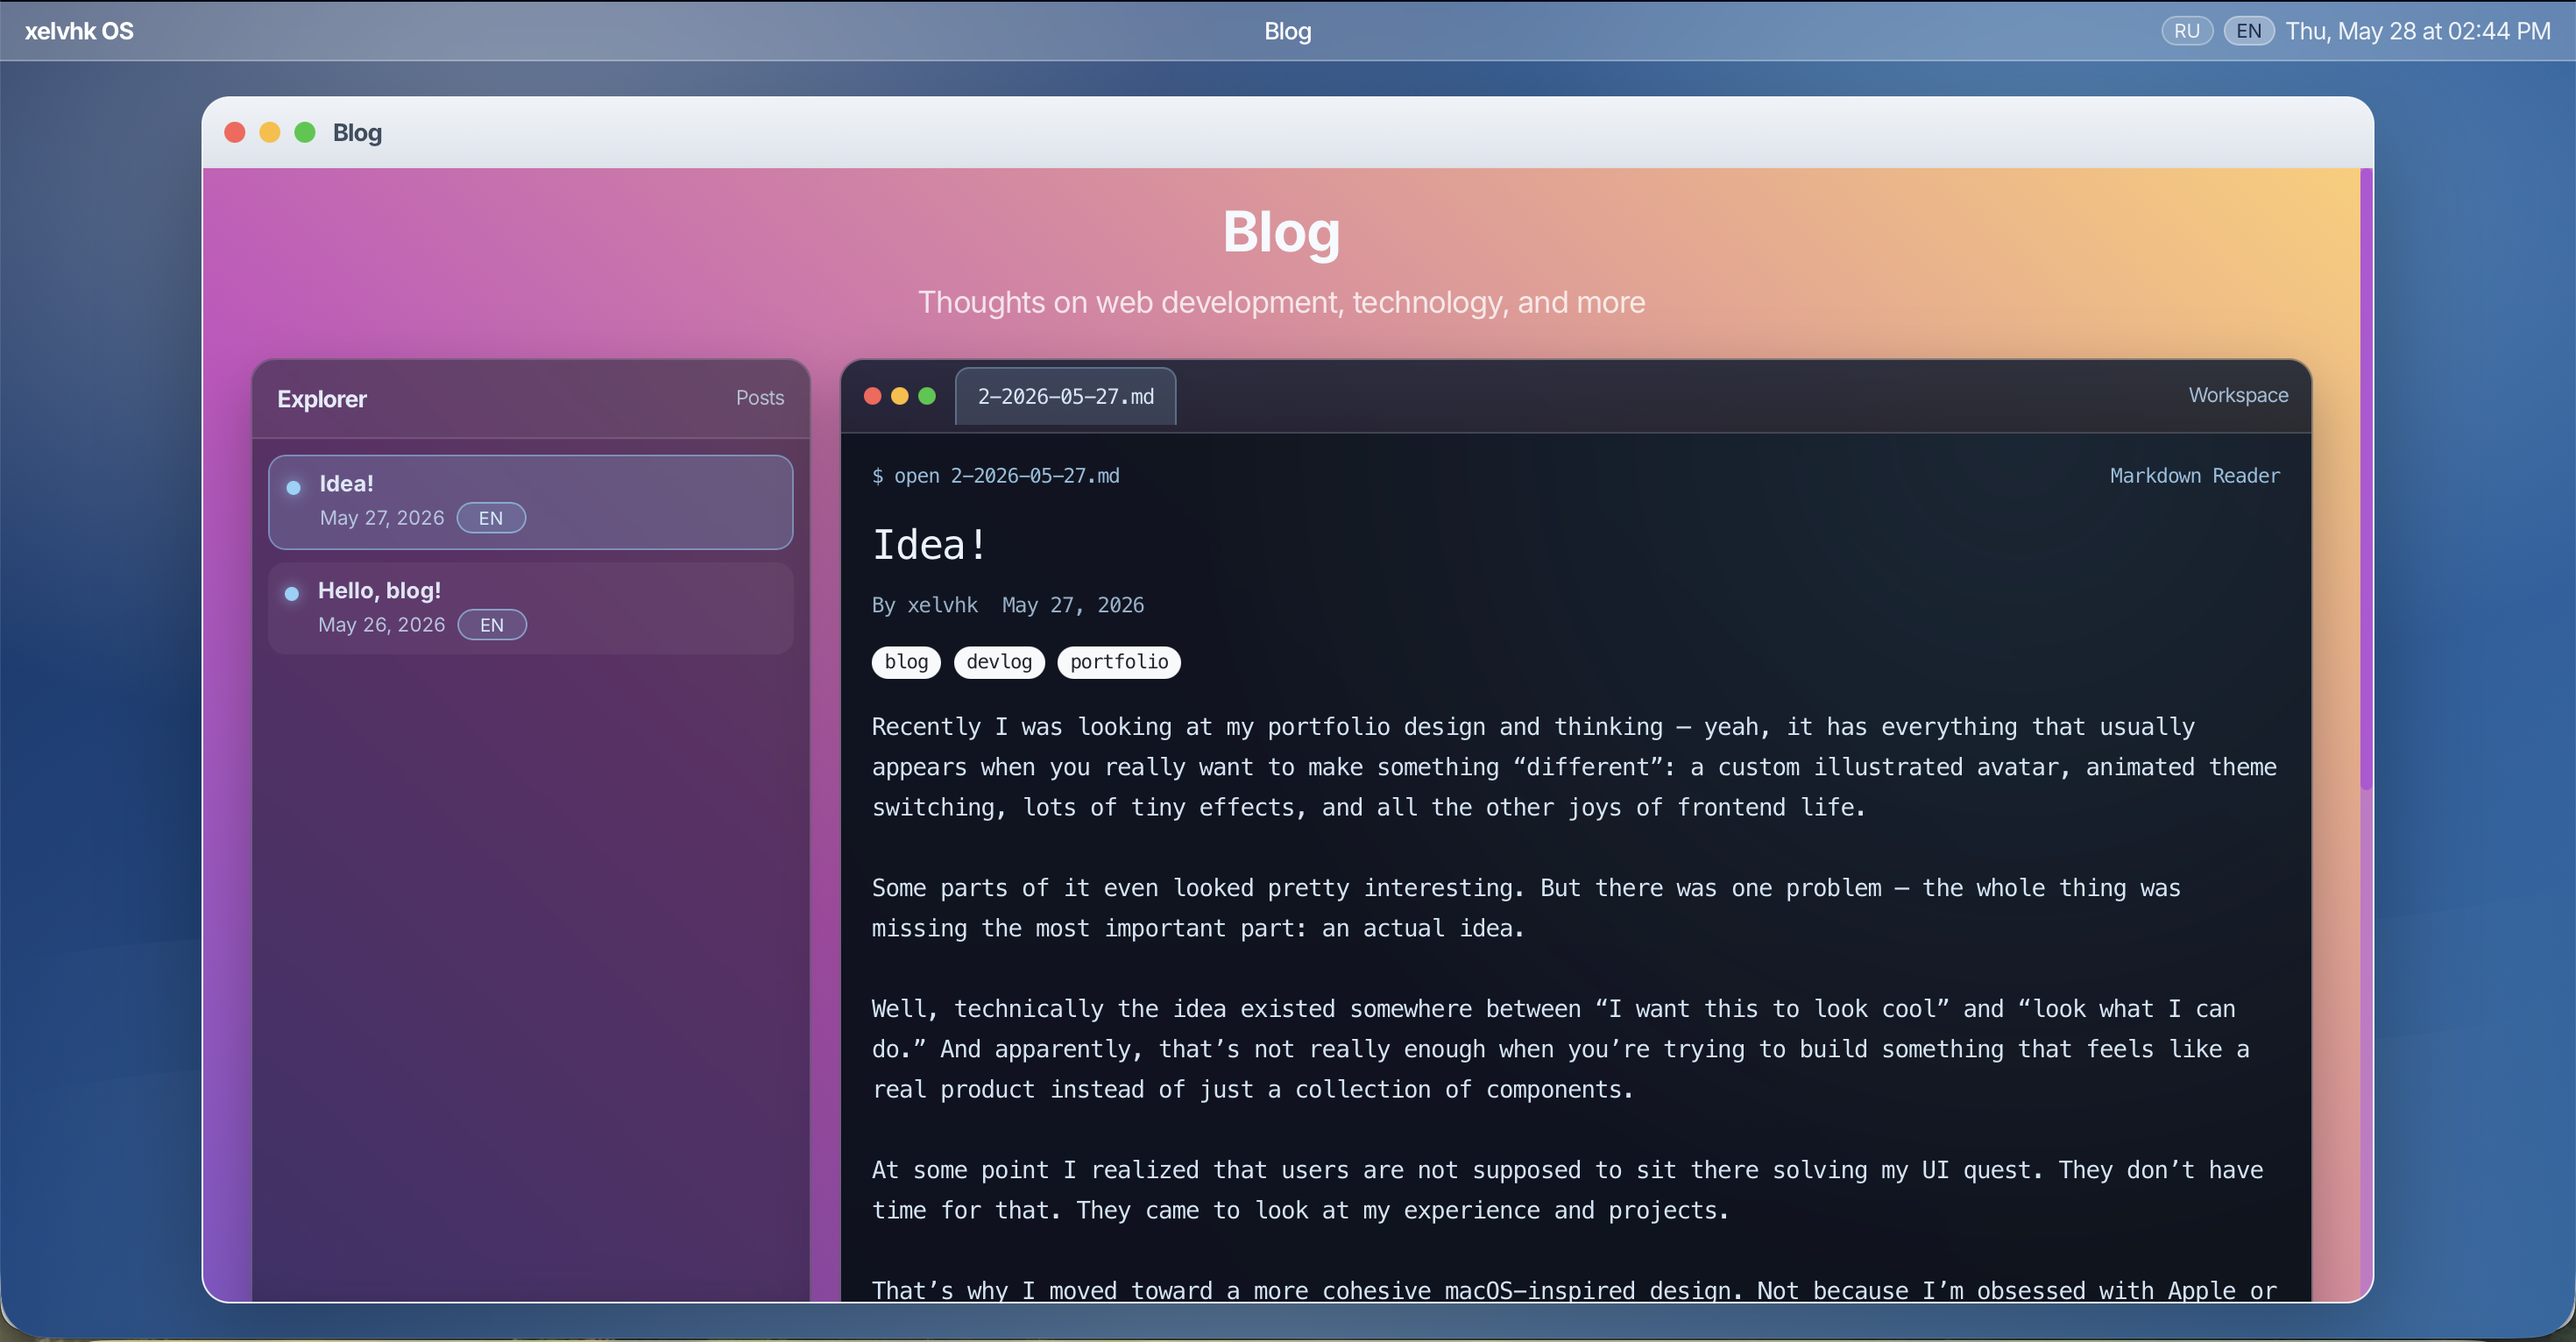
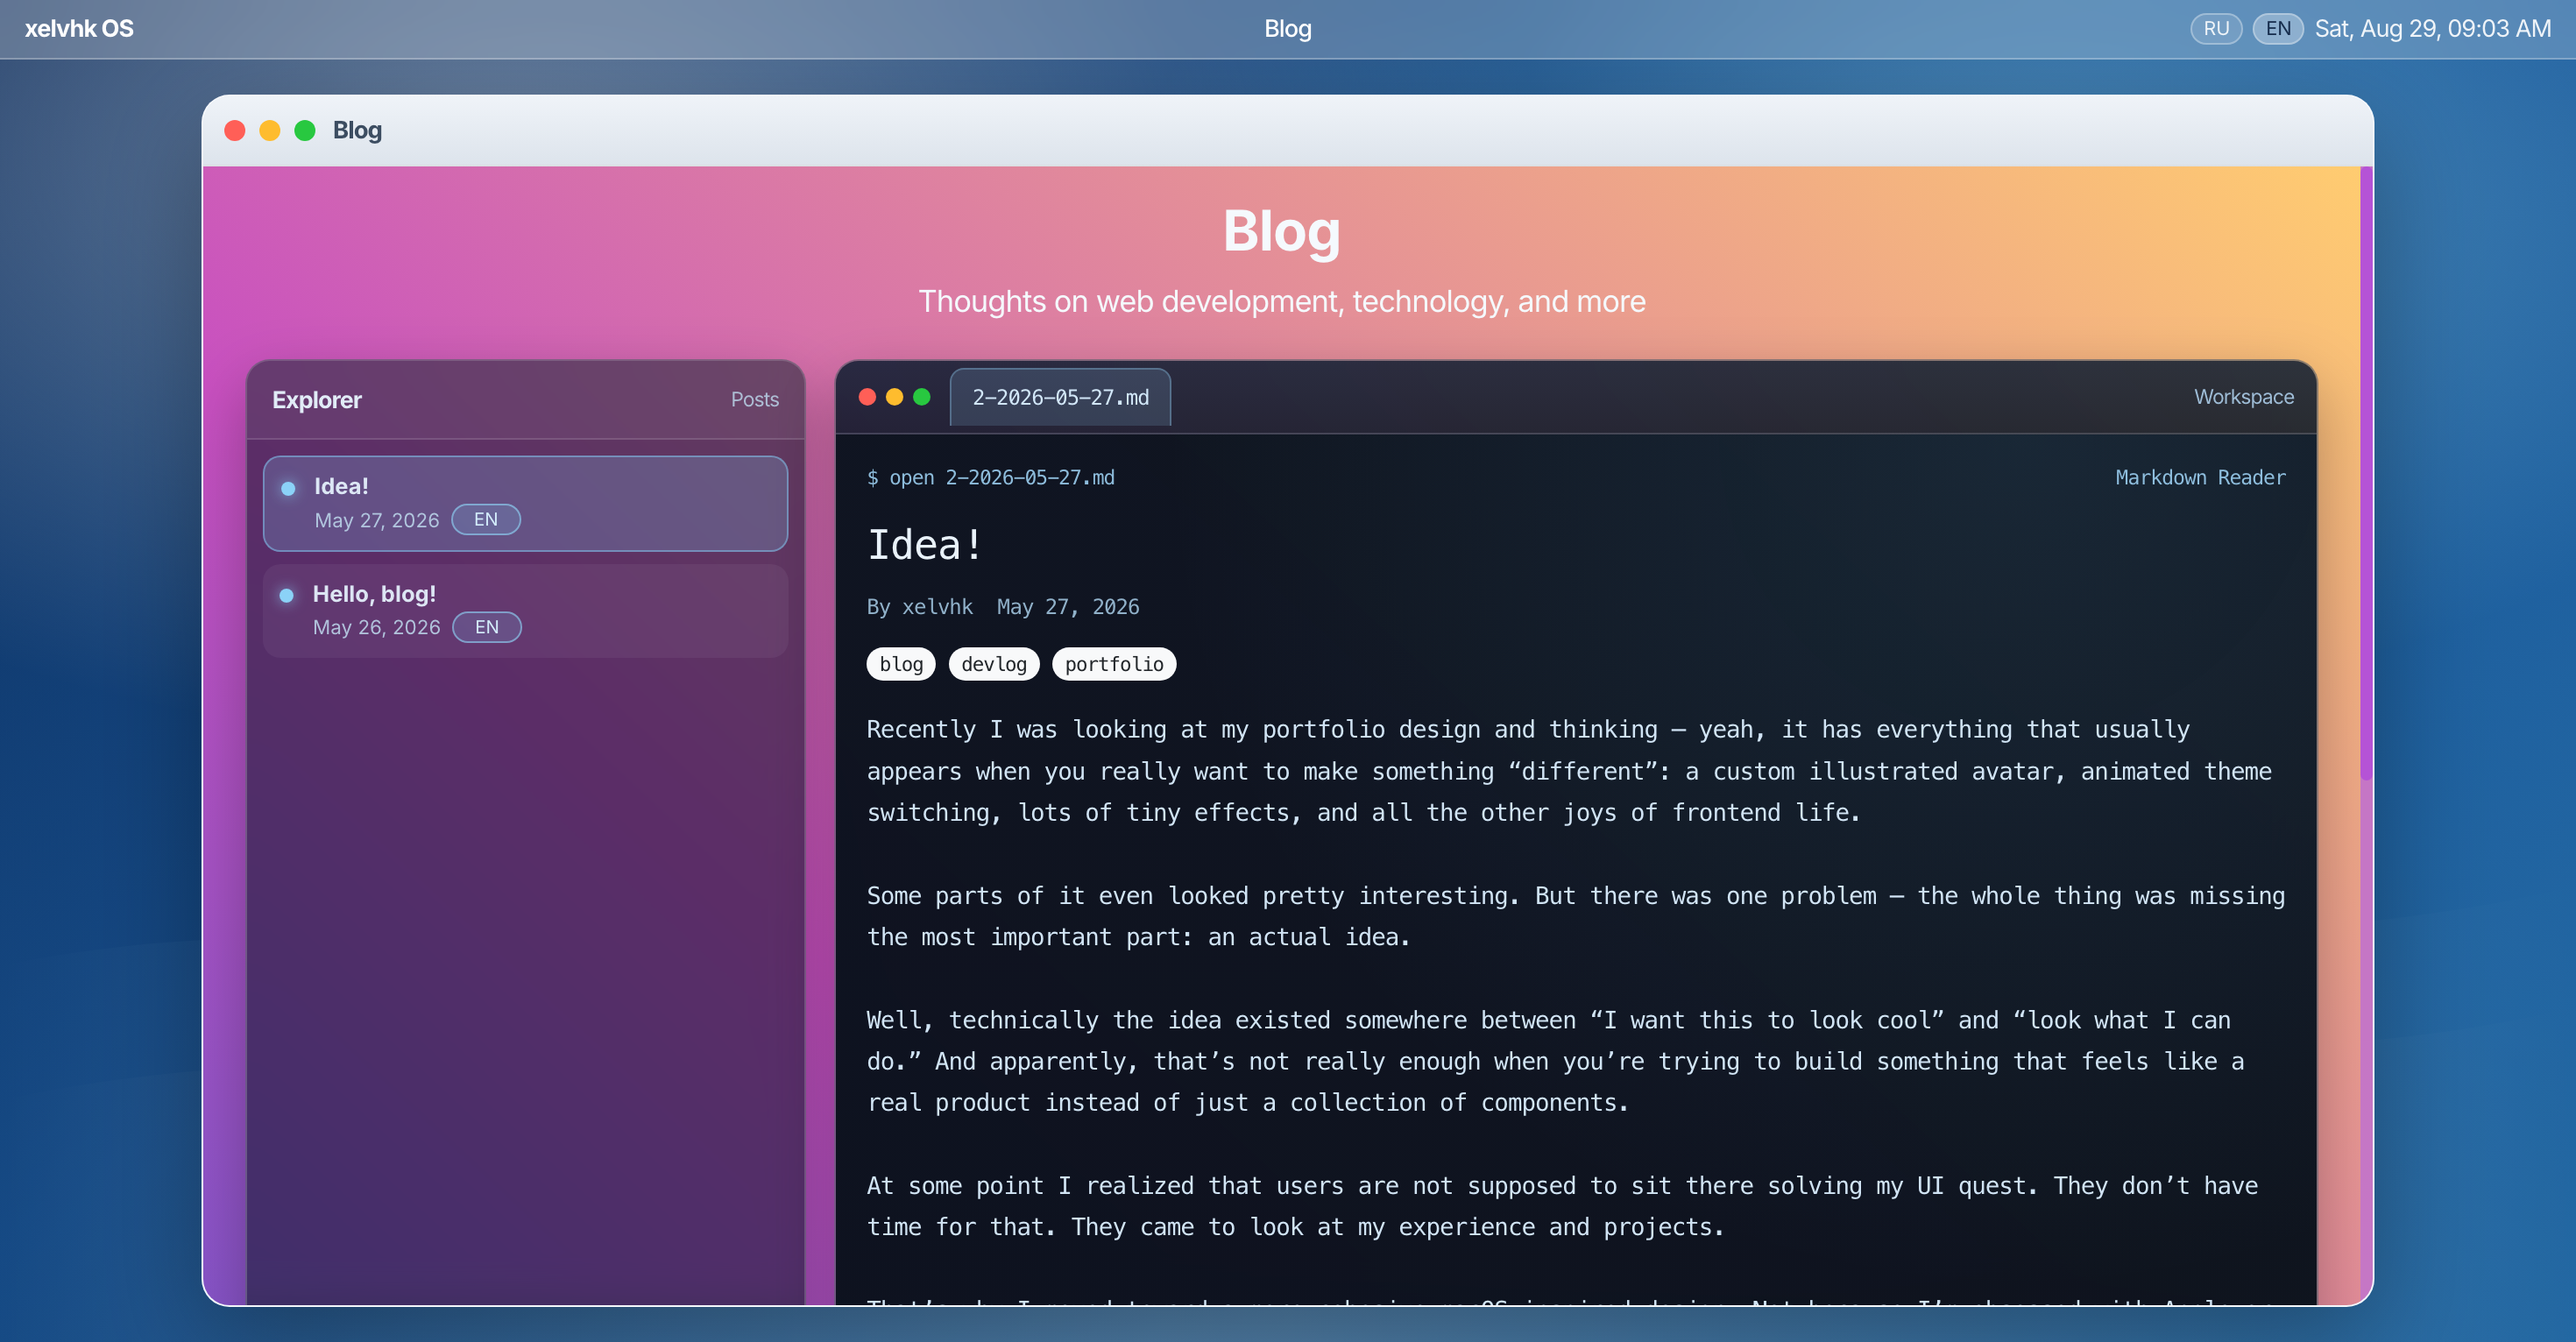
feat: refresh portfolio project showcase

diff --git a/src/data/cms.test.js b/src/data/cms.test.js
@@ -108,33 +108,43 @@ describe('cms.getProjects integration', () => {
         },
         {
           id: 102,
-          name: 'tajnyj_ded_bot',
-          description: 'Secret Santa bot',
+          name: 'college_auto_schedule',
+          description: 'College schedule automation',
           language: 'Python',
-          topics: ['telegram'],
-          html_url: 'https://github.com/xelvhk/tajnyj_ded_bot',
+          topics: [],
+          html_url: 'https://github.com/xelvhk/college_auto_schedule',
           fork: false,
           pushed_at: '2026-04-23T08:00:00Z',
         },
         {
           id: 103,
+          name: 'career-radar',
+          description: 'Career intelligence tool',
+          language: 'Python',
+          topics: [],
+          html_url: 'https://github.com/xelvhk/career-radar',
+          fork: false,
+          pushed_at: '2026-04-22T08:00:00Z',
+        },
+        {
+          id: 104,
           name: 'aboutme',
           description: 'Portfolio',
           language: 'JavaScript',
           topics: ['react'],
           html_url: 'https://github.com/xelvhk/aboutme',
           fork: false,
-          pushed_at: '2026-04-22T08:00:00Z',
+          pushed_at: '2026-04-21T08:00:00Z',
         },
         {
-          id: 104,
-          name: 'attendance_bot',
-          description: 'Attendance bot',
+          id: 105,
+          name: 'tajnyj_ded_bot',
+          description: 'Secret Santa bot',
           language: 'Python',
           topics: ['telegram'],
-          html_url: 'https://github.com/xelvhk/attendance_bot',
+          html_url: 'https://github.com/xelvhk/tajnyj_ded_bot',
           fork: false,
-          pushed_at: '2026-04-21T08:00:00Z',
+          pushed_at: '2026-04-20T08:00:00Z',
         },
       ],
     });
@@ -144,7 +154,8 @@ describe('cms.getProjects integration', () => {
 
     expect(result.filter((item) => item.pinned).map((item) => item.title)).toEqual([
       'vasya_ai',
-      'tajnyj_ded_bot',
+      'college_auto_schedule',
+      'career-radar',
       'aboutme',
     ]);
   });
@@ -229,6 +240,52 @@ describe('cms.getProjects integration', () => {
       description_ru: 'Статическая landing page для презентации vasya_ai: фокус на продуктовой подаче, сценариях использования и понятном frontend-оформлении.',
       topics: ['html', 'css', 'landing'],
       img: '/project-previews/vasya_ai_landing.svg',
+    });
+  });
+
+
+  test('formats new pinned projects with card-ready Russian descriptions, topics, and previews', async () => {
+    global.fetch.mockResolvedValueOnce({
+      ok: true,
+      json: async () => [
+        {
+          id: 204,
+          name: 'college_auto_schedule',
+          description: 'Local college schedule automation system.',
+          language: 'Python',
+          topics: [],
+          html_url: 'https://github.com/xelvhk/college_auto_schedule',
+          fork: false,
+          pushed_at: '2026-08-22T08:00:00Z',
+        },
+        {
+          id: 205,
+          name: 'career-radar',
+          description: 'Evidence-first career intelligence tool.',
+          language: 'Python',
+          topics: [],
+          html_url: 'https://github.com/xelvhk/career-radar',
+          fork: false,
+          pushed_at: '2026-08-21T08:00:00Z',
+        },
+      ],
+    });
+
+    const { cms } = require('./cms');
+    const result = await cms.getProjects();
+
+    expect(result.slice(0, 2).map((item) => item.title)).toEqual(['college_auto_schedule', 'career-radar']);
+    expect(result[0]).toMatchObject({
+      pinned: true,
+      description_ru: 'Локальная система автоматического составления расписания колледжа с учетом групп, преподавателей, аудиторий и ограничений.',
+      topics: ['python', 'automation', 'scheduling'],
+      img: '/project-previews/college_auto_schedule.svg',
+    });
+    expect(result[1]).toMatchObject({
+      pinned: true,
+      description_ru: 'Локальный career intelligence-инструмент для анализа вакансий, объяснимого matching и evidence-first планирования развития.',
+      topics: ['python', 'local-first', 'career-intelligence'],
+      img: '/project-previews/career-radar.svg',
     });
   });
 

diff --git a/src/data/cms.js b/src/data/cms.js
@@ -18,6 +18,8 @@ const GITHUB_CACHE_TTL_MS = 6 * 60 * 60 * 1000;
 const PROJECT_DESCRIPTION_RU = {
     vasya_ai: 'Локальный AI-ассистент для desktop-задач: голосовые команды, автоматизация и развитие агентных сценариев.',
     vasya_ai_landing: 'Статическая landing page для презентации vasya_ai: фокус на продуктовой подаче, сценариях использования и понятном frontend-оформлении.',
+    college_auto_schedule: 'Локальная система автоматического составления расписания колледжа с учетом групп, преподавателей, аудиторий и ограничений.',
+    'career-radar': 'Локальный career intelligence-инструмент для анализа вакансий, объяснимого matching и evidence-first планирования развития.',
     aboutme: 'Портфолио в стиле персональной desktop OS с автосинхронизацией GitHub-проектов и блогом из Markdown.',
     tajnyj_ded_bot: 'Telegram-бот для жеребьевки Тайного Санты с приватным распределением участников.',
     attendance_bot: 'Telegram-бот для учета посещаемости, реализованный на Aiogram.',
@@ -47,7 +49,8 @@ const PROJECT_DESCRIPTION_RU = {
 };
 const PINNED_REPOS = new Set([
     "vasya_ai",
-    "tajnyj_ded_bot",
+    "college_auto_schedule",
+    "career-radar",
     "aboutme",
 ]);
 const PROJECT_PREVIEW_FILES = {
@@ -57,6 +60,8 @@ const PROJECT_PREVIEW_FILES = {
 const PROJECT_TOPIC_FALLBACKS = {
     vasya_ai: ['python', 'ai', 'automation'],
     vasya_ai_landing: ['html', 'css', 'landing'],
+    college_auto_schedule: ['python', 'automation', 'scheduling'],
+    'career-radar': ['python', 'local-first', 'career-intelligence'],
     aboutme: ['react', 'portfolio', 'markdown'],
     tajnyj_ded_bot: ['python', 'telegram', 'aiogram'],
     attendance_bot: ['python', 'telegram', 'aiogram'],

diff --git a/src/helpers/projectsList.js b/src/helpers/projectsList.js
@@ -19,10 +19,9 @@ const projects = [
 		topics: ['fastapi', 'next.js', 'postgresql', 'docker', 'saas', 'backend'],
 		img: `${previewBase}/onboardica.svg`,
 		caseStudyLink: '/case-studies/onboardica',
-		pinned: true,
-		problem_en: 'Private repositories are hard to evaluate publicly, but the project needed hiring-ready proof without exposing source code or local data.',
+		problem_en: 'Private repositories are hard to evaluate publicly, but the project needed credible technical proof without exposing source code or local data.',
 		solution_en: 'Built a public case study with sanitized screenshots, verification results, architecture boundaries, and an explicit private-source disclosure model.',
-		result_en: 'Created a public evidence artifact for a verified full-stack onboarding product while keeping the codebase private and reviewable on request.',
+		result_en: 'Created a public evidence artifact for a verified full-stack onboarding product while keeping the codebase private and available for controlled review.',
 		problem_ru: 'Приватные репозитории сложно оценивать публично, но проекту нужно доказательство результата без раскрытия исходников и локальных данных.',
 		solution_ru: 'Собран публичный case study с sanitized-скриншотами, результатами проверок, архитектурными границами и честной моделью раскрытия приватного кода.',
 		result_ru: 'Появился публичный proof-артефакт для проверенного full-stack продукта, при этом код остается приватным и доступным по запросу.',
